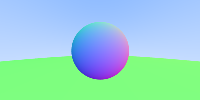
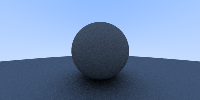
added mate object surface

diff --git a/main.py b/main.py
@@ -1,3 +1,4 @@
+import sys
 from random import random
 
 from matplotlib import pyplot as plt
@@ -20,11 +21,19 @@ class Camera:
 def color(ray: Ray, world: Hittable):
     rec = HitRecord(0, np.array([0, 0, 0]), np.array([0, 0, 0]))
     if world.hit(ray, 0, np.inf, rec):
-        return 0.5 * np.array([rec.normal[0] + 1, rec.normal[1] + 1, rec.normal[2] + 1])
+        target = rec.p + rec.normal + random_in_unit_sphere()
+        return 0.5 * color(Ray(rec.p, target - rec.p), world)
     else:
         unit_direction = ray.direction() / np.linalg.norm(ray.direction())
         t = 0.5 * (unit_direction[1] + 1.0)
         return (1.0 - t) * np.array([1.0, 1.0, 1.0]) + t * np.array([0.5, 0.7, 1.0])
+
+
+def random_in_unit_sphere():
+    p = 2 * np.array([random(), random(), random()]) - np.array([1, 1, 1])
+    while p[0] * p[0] + p[1] * p[1] + p[2] * p[2] >= 1:
+        p = 2 * np.array([random(), random(), random()]) - np.array([1, 1, 1])
+    return p
 
 
 def render():
